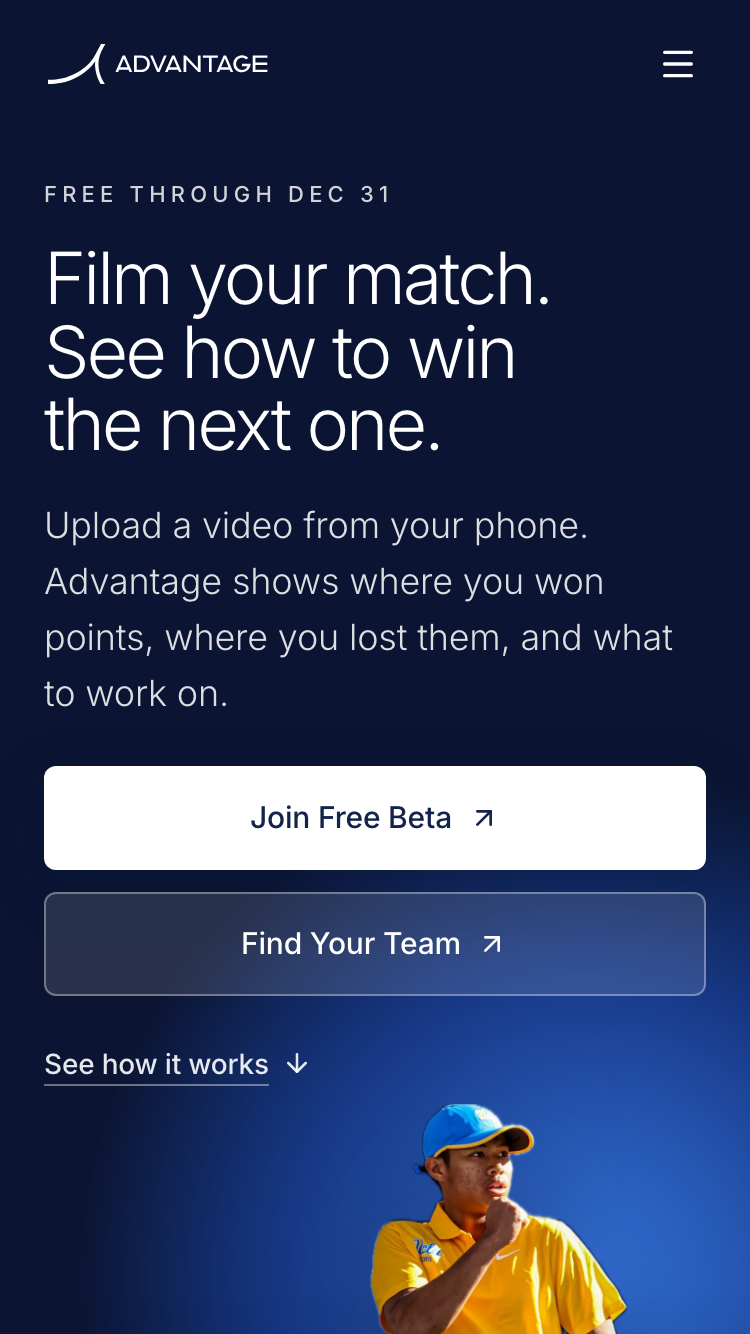
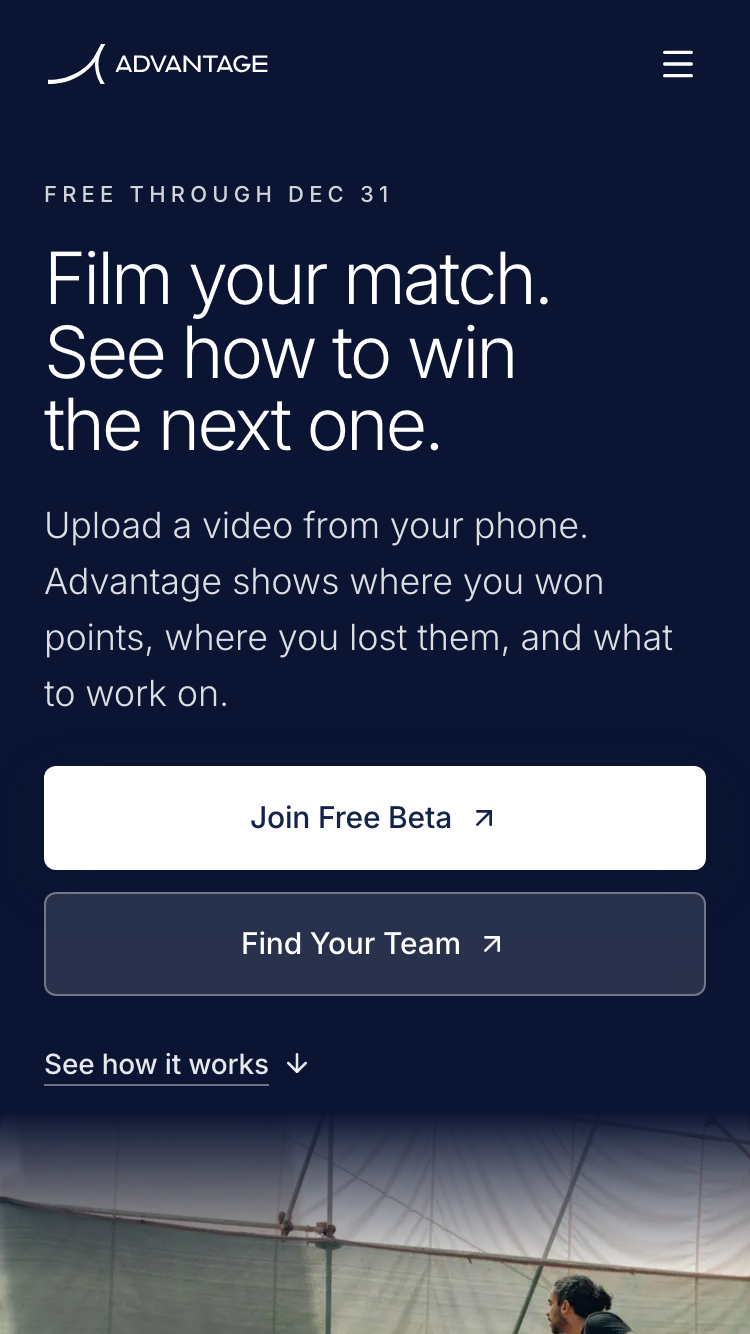
Use the coaching photo in the hero, uncropped
Replace the cut-out player with the supplied coach-and-player photo. It is
pinned to the hero's right edge and shown whole at 4:3 so neither person is
cut off; its left edge dissolves into the navy so the copy stays clear.

Changed region(s): [[0.0, 0.6147, 1.0, 1.0]]

diff --git a/src/app/perspective.css b/src/app/perspective.css
@@ -702,27 +702,21 @@ section.band.final-band { position: relative; overflow: hidden; padding: 130px 0
 }
 
 /* ============================================================
-   HUMAN HERO — a cut-out player and plain copy, then the dashboard on a
+   HUMAN HERO — plain copy beside a photo, then the dashboard on a
    computer screen under both, fading into the next section (hero.tsx).
 
-   One responsive composition, real DOM at real sizes. The backdrop is the
-   page's navy, lit with the brand blue behind the figure so the cut-out
-   has something to stand against; the copy side stays dark for the white
-   type and the transparent nav.
+   One responsive composition, real DOM at real sizes, on the page's navy.
    ============================================================ */
-.hh { position: relative; overflow: hidden; isolation: isolate; color: #fff;
-  background:
-    radial-gradient(ellipse 46% 60% at 80% 38%, rgba(59,130,246,.95) 0%, rgba(37,99,235,.55) 38%, transparent 72%),
-    radial-gradient(ellipse 40% 36% at 100% 0%, rgba(56,189,248,.35) 0%, transparent 70%),
-    #0B1533; }
-.hh-inner { position: relative; display: flex; align-items: center; padding-top: 128px; padding-bottom: 120px;
+/* --hh-lap: how far the screen laps up over the top tier.
+   --hh-copy: the copy column's width; the photo starts where it ends. */
+.hh { --hh-lap: 64px; --hh-copy: 500px; --hh-gutter: max(40px, calc((100vw - 1240px) / 2 + 40px));
+  position: relative; overflow: hidden; isolation: isolate; color: #fff; background: #0B1533; }
+.hh-inner { position: relative; z-index: 1; display: flex; align-items: center; padding-top: 128px; padding-bottom: 120px;
   min-height: clamp(560px, 72vh, 680px); min-height: clamp(560px, 72svh, 680px); }
-/* The headline is sized so its longer sentence holds one line inside the
-   copy column, and the column is sized to stop short of the stage. */
-.hh-copy { position: relative; z-index: 1; display: flex; flex-direction: column; align-items: flex-start; gap: 22px; max-width: 630px; }
+.hh-copy { display: flex; flex-direction: column; align-items: flex-start; gap: 22px; max-width: var(--hh-copy); }
 .hh-title { font-size: 48px; line-height: 1.06; text-wrap: balance; }
 .hh-title span { display: block; }
-.hh-sub { max-width: 46ch; color: rgba(255,255,255,.9); font-weight: var(--fw-regular); }
+.hh-sub { max-width: 42ch; color: rgba(255,255,255,.9); font-weight: var(--fw-regular); }
 .hh-copy .h-actions { margin-top: 6px; }
 /* The secondary action: a quiet text link down to How it works, under the
    two sign-up lanes rather than beside them, so it never competes. */
@@ -732,13 +726,24 @@ section.band.final-band { position: relative; overflow: hidden; padding: 130px 0
   transition: color 160ms var(--ease-primary), text-decoration-color 160ms var(--ease-primary); }
 .hh-more:hover { color: #fff; text-decoration-color: #fff; }
 
-/* The player's stage: the top tier's full height on the right. The figure
-   stands on the tier's bottom edge, which the screen below overlaps
-   (--hh-lap), so the cut-out's own bottom edge is always behind the screen. */
-.hh { --hh-lap: 64px; }
-.hh-stage { position: absolute; top: 0; bottom: 0; right: 40px; width: 460px; pointer-events: none; }
-.hh-player { position: absolute; bottom: 0; left: 50%; translate: -50% 0; height: 86%; width: auto; max-width: none;
-  filter: drop-shadow(0 24px 40px rgba(4,10,30,.45)); }
+/* The photo: whole, at its own 4:3, pinned to the hero's right edge and
+   standing on the screen's top edge. It reaches left to just inside the copy
+   column; a mask dissolves that left strip (and a sliver along the bottom,
+   for where it runs past the screen's corner, and the top) into the navy,
+   so the picture has no hard edge anywhere it meets the backdrop. Sized by width, so the people in it are
+   never cropped; only spare ceiling can run off the hero's top. */
+.hh-top { position: relative; }
+.hh-photo { position: absolute; z-index: 0; right: 0; bottom: var(--hh-lap);
+  width: min(calc(100vw - var(--hh-gutter) - var(--hh-copy) + 40px), 900px); aspect-ratio: 4 / 3; pointer-events: none;
+  --m: linear-gradient(to right, transparent 0%, rgba(0,0,0,.35) 7%, #000 17%),
+       linear-gradient(to top, transparent 0%, #000 5%),
+       linear-gradient(to bottom, transparent 0%, #000 14%);
+  -webkit-mask-image: var(--m); mask-image: var(--m);
+  -webkit-mask-composite: source-in; mask-composite: intersect; }
+.hh-photo img { object-fit: cover; }
+/* The nav's shade: navy down from the top, over the photo only. */
+.hh-photo::after { content: ""; position: absolute; inset: 0;
+  background: linear-gradient(to bottom, rgba(11,21,51,.78) 0%, rgba(11,21,51,.4) 14%, rgba(11,21,51,0) 30%); }
 
 /* The computer screen: the dashboard Home's 1440 artboard under a browser
    bar, scaled to the container by useScaleToFit and cut off partway down.
@@ -763,23 +768,20 @@ section.band.final-band { position: relative; overflow: hidden; padding: 130px 0
     rgba(250,250,250,.7) 64%, rgba(250,250,250,.92) 82%, var(--surface-page) 96%); }
 
 @media (max-width: 1239px) {
-  .hh-copy { max-width: 530px; }
+  .hh { --hh-copy: 440px; }
   .hh-title { font-size: 42px; letter-spacing: -1.2px; }
-  .hh-stage { width: 380px; }
 }
-/* Below 1024 the player can no longer stand beside the copy: the stage
-   drops into the flow under it, and the screen is drawn wider than the
-   viewport so it stays legible, running off the right edge. */
+/* Below 1024 the photo can no longer sit beside the copy: it drops into the
+   flow under it at full width, its top edge dissolving into the navy, and
+   the screen is drawn wider than the viewport so it stays legible. */
 @media (max-width: 1023px) {
-  .hh { --hh-lap: 48px; background:
-    radial-gradient(ellipse 90% 30% at 78% 56%, rgba(59,130,246,.9) 0%, rgba(37,99,235,.45) 45%, transparent 75%),
-    #0B1533; }
+  .hh { --hh-lap: 0px; --hh-copy: 560px; }
   .hh-inner { flex-direction: column; align-items: flex-start; min-height: 0; padding-top: 104px; padding-bottom: 0; }
-  .hh-copy { max-width: 560px; gap: 18px; }
+  .hh-copy { gap: 18px; }
   .hh-title { font-size: 44px; }
-  .hh-stage { position: relative; top: auto; bottom: auto; right: auto; flex: none; align-self: stretch; width: auto;
-    height: 320px; margin-top: 8px; }
-  .hh-player { left: auto; right: 4%; translate: none; height: 100%; }
+  .hh-photo { position: relative; right: auto; bottom: auto; width: 100%; margin-top: 8px;
+    --m: linear-gradient(to bottom, transparent 0%, rgba(0,0,0,.4) 12%, #000 30%); }
+  .hh-photo::after { content: none; }
   .hh-screen { width: 150%; border-radius: 12px 12px 0 0; }
   .hh::after { height: clamp(150px, 40vw, 300px); }
 }
@@ -789,13 +791,11 @@ section.band.final-band { position: relative; overflow: hidden; padding: 130px 0
   .hh-sub { font-size: 16px; line-height: 1.5; }
   .hh-copy .h-actions { width: 100%; flex-direction: column; align-items: stretch; gap: 11px; margin-top: 4px; }
   .hh-copy .hbtn { width: 100%; height: 52px; font-size: 15px; }
-  .hh-stage { height: 280px; margin-top: 4px; }
   .hh-screen { width: 230%; }
 }
 /* Short landscape phones: height is scarce, so the lanes sit side by side
-   and the player is dropped; the copy and both buttons stay above the fold. */
+   and the photo is dropped; the copy and both buttons stay above the fold. */
 @media (max-width: 1023px) and (orientation: landscape) and (max-height: 560px) {
-  .hh { --hh-lap: 0px; }
   .hh-inner { padding-top: 76px; padding-bottom: 32px; }
   .hh-copy { gap: 12px; }
   .hh-title { font-size: clamp(26px, 5.6vw, 36px); }
@@ -803,7 +803,7 @@ section.band.final-band { position: relative; overflow: hidden; padding: 130px 0
   .hh-sub { font-size: 15px; max-width: 60ch; }
   .hh-copy .h-actions { flex-direction: row; width: auto; }
   .hh-copy .hbtn { width: auto; height: 46px; }
-  .hh-stage { display: none; }
+  .hh-photo { display: none; }
 }
 
 /* ============================================================

diff --git a/src/components/perspective/hero.tsx b/src/components/perspective/hero.tsx
@@ -10,18 +10,18 @@ import { BETA_END_SHORT } from "@/lib/pilot";
 
 /* ===========================================================
    HERO PHOTO SLOT
-   A cut-out player on a transparent background (PNG), standing on the
-   hero's own navy-and-blue backdrop. To swap: drop another cut-out at
-   public/assets/marketing/hero-*.png, change this one import, and rewrite
-   `alt` to describe the new picture. The figure is anchored to the hero's
-   bottom edge, so a cut-out that ends mid-body (as this one does at the
-   thigh) never shows its cut.
+   A landscape photo, shown whole (never cropped at the sides) against the
+   hero's right edge. Its left edge is faded into the navy backdrop so the
+   copy beside it stays clear. To swap: drop another landscape photo at
+   public/assets/marketing/hero-*.jpg, change this one import, and rewrite
+   `alt`. Keep the people out of the left ~12% of the frame: that strip is
+   the fade.
    =========================================================== */
-import heroPhoto from "../../../public/assets/marketing/hero-player.png";
+import heroPhoto from "../../../public/assets/marketing/hero-coaching.jpg";
 
 const HERO_PHOTO = {
   src: heroPhoto,
-  alt: "A tennis player in a gold shirt and blue cap pumps a fist between points, racket in hand.",
+  alt: "A coach feeds balls from a basket to a young player on a covered clay court.",
 };
 
 const HERO_EYEBROW = `Free through ${BETA_END_SHORT}`;
@@ -43,17 +43,19 @@ const HERO_SUB =
 /* ===========================================================
    Human hero — one responsive composition, two tiers.
 
-   Top: a cut-out player on a navy backdrop lit blue behind them, the copy
-   on the dark side so the white type and the transparent nav stay legible.
+   Top: the copy on navy, and beside it the photo, pinned to the hero's
+   right edge and shown whole. The photo runs left until it meets the copy
+   column and dissolves into the navy there, so nobody in it is cut off and
+   nothing sits behind the type. A shade along its top keeps the
+   transparent nav legible over a bright picture.
    Below both: the dashboard on a computer screen, running the container's
-   width. The screen overlaps the top tier (the player stands behind its
-   top edge, which hides where the cut-out ends) and fades out into the
-   next section, so the hero has no hard bottom edge.
+   width, fading out into the next section so the hero has no hard bottom
+   edge.
 
-   • ≥1024px: copy left, player right, screen under both.
-   • <1024px: copy, then the player, then the screen, drawn wider than the
-     viewport so it stays legible and runs off the right edge. Both sign-up
-     buttons stay above the fold on a 375×667 phone.
+   • ≥1024px: copy left, photo right, screen under both.
+   • <1024px: copy, then the photo full width, then the screen, drawn wider
+     than the viewport so it stays legible and runs off the right edge. Both
+     sign-up buttons stay above the fold on a 375×667 phone.
    =========================================================== */
 
 // The screen is the dashboard Home's 1440 artboard under a browser bar, cut
@@ -117,27 +119,23 @@ function HeroActions() {
 export function PerspectiveHero() {
   return (
     <header className="hh" id="top">
-      <div className="wrap hh-inner">
-        <div className="hh-copy">
-          <span className="h-eyebrow">{HERO_EYEBROW}</span>
-          <h1 className="h-title hh-title">
-            <span>{HERO_TITLE[0]}</span> <span>{HERO_TITLE[1]}</span>
-          </h1>
-          <p className="h-sub hh-sub">{HERO_SUB}</p>
-          <HeroActions />
-          <a className="hh-more" href="#how" onClick={() => trackEvent("see_how_it_works_click", { placement: "home-hero" })}>
-            See how it works
-            <ArrowDown size={15} />
-          </a>
+      <div className="hh-top">
+        <div className="wrap hh-inner">
+          <div className="hh-copy">
+            <span className="h-eyebrow">{HERO_EYEBROW}</span>
+            <h1 className="h-title hh-title">
+              <span>{HERO_TITLE[0]}</span> <span>{HERO_TITLE[1]}</span>
+            </h1>
+            <p className="h-sub hh-sub">{HERO_SUB}</p>
+            <HeroActions />
+            <a className="hh-more" href="#how" onClick={() => trackEvent("see_how_it_works_click", { placement: "home-hero" })}>
+              See how it works
+              <ArrowDown size={15} />
+            </a>
+          </div>
         </div>
-        <div className="hh-stage">
-          <Image
-            className="hh-player"
-            src={HERO_PHOTO.src}
-            alt={HERO_PHOTO.alt}
-            preload
-            sizes="(max-width: 1023px) 240px, 420px"
-          />
+        <div className="hh-photo">
+          <Image src={HERO_PHOTO.src} alt={HERO_PHOTO.alt} fill preload sizes="(max-width: 1023px) 100vw, 66vw" placeholder="blur" />
         </div>
       </div>
       <div className="wrap hh-screen-wrap">

diff --git a/review/landing-human-hero/SUMMARY.md b/review/landing-human-hero/SUMMARY.md
@@ -6,21 +6,23 @@ than create `landing-human-hero`). Nothing pushed or deployed; `main` untouched.
 ## What changed
 
 **Hero** — `src/components/perspective/hero.tsx`, `src/app/perspective.css`
-- The blue mesh + tilted full-size dashboard is replaced by a cut-out player
-  (`public/assets/marketing/hero-player.png`, from the photo you supplied) on
-  a navy backdrop lit blue behind them, with copy on the left.
-- Under the copy and the player, the dashboard sits on a computer screen (a
-  browser window, full container width) that overlaps the top tier and fades
-  out into the next section. On phones it is drawn wider than the viewport so
-  it stays legible and runs off the right edge. This replaced the small
-  floating card from the earlier pass.
+- The blue mesh + tilted full-size dashboard is replaced by plain copy on navy
+  with a photo beside it (`public/assets/marketing/hero-coaching.jpg`, the
+  coach-and-player photo you supplied).
+- The photo is pinned to the hero's right edge and shown whole at 4:3, so
+  neither person is cropped. Its left edge dissolves into the navy where it
+  meets the headline; the top and bottom edges fade too.
+- Under the copy and the photo, the dashboard sits on a computer screen (a
+  browser window, full container width) that fades out into the next section.
+  On phones it is drawn wider than the viewport so it stays legible.
 - One responsive layout replaces the old pair (a scaled 1440 px artboard for
   desktop plus a separate mobile hero).
-- The player goes through `next/image` (preloaded) with real alt text.
+- The photo goes through `next/image` (preloaded, blur placeholder) with real
+  alt text.
 - Kept: the "Free through Dec 31" eyebrow and both sign-up buttons (Join Free
   Beta, Find Your Team). Added: a "See how it works" link to `#how`.
-- The first version used `elc-court.jpg` full-bleed as an interim; that is no
-  longer referenced by the hero.
+- Earlier passes used `elc-court.jpg` and then a cut-out player; neither is
+  used now and the cut-out file has been removed.
 
 **How it works** — `src/components/perspective/sections.tsx`
 - Moved directly under the hero and reframed as Capture → Upload → Analyze.
@@ -98,11 +100,10 @@ Run with Playwright against the production build. Screenshots here:
 4. **Three hero actions.** Both sign-up lanes stay as buttons; "See how it
    works" is a text link under them so it doesn't compete.
 5. **Dark hero, not light.** The nav is transparent with a white logo at the
-   top of the page, so the hero has to stay dark. The cut-out stands on navy
-   with a blue glow behind it; the gold shirt carries the contrast.
-5a. **Cut-out made locally** with macOS subject detection, so the photo never
-   left this machine. The edge is clean at page size; a designer's hand-cut
-   would be crisper around the racket strings if you want to polish it.
+   top of the page, so the copy side stays navy and the photo gets a navy
+   shade along its top for the nav links.
+5a. **Headline wraps to three lines on desktop** so the copy column is narrow
+   enough for the whole photo to fit beside it.
 6. **Floating card is a crop, not a shrunk window.** The whole dashboard at
    that size is unreadable, so the card shows the season summary at 60% scale
    and drops the browser chrome.
@@ -130,10 +131,9 @@ Run with Playwright against the production build. Screenshots here:
 
 ## What you need to do
 
-1. **Clear the hero photo for use.** It shows a recognisable player, with a
-   school mark and an apparel logo on the shirt and cap. Confirm you have the
-   player's release and that the marks are fine to show (or have them
-   retouched out) before this takes traffic.
+1. **Clear the hero photo for use.** It shows a recognisable adult and a
+   child. Confirm you hold a licence or release for the photo that covers
+   marketing use, including a guardian's consent for the child.
 2. **Shoot the rest** (`assets/PHOTO_SHOTLIST.md`) when you can; swapping the
    hero is one import line in `hero.tsx` plus the alt text.
 3. **Regenerate `src/app/opengraph-image.jpg`**. Link previews still show

diff --git a/assets/PHOTO_SHOTLIST.md b/assets/PHOTO_SHOTLIST.md
@@ -1,23 +1,21 @@
 # Photo shot list — landing page
 
-Six shots for the home page, in priority order. The hero currently runs a
-cut-out of a player (`public/assets/marketing/hero-player.png`) on a navy and
-blue backdrop; the slot is at the top of `src/components/perspective/hero.tsx`.
+Six shots for the home page, in priority order. The hero currently runs
+`public/assets/marketing/hero-coaching.jpg` (a coach and a young player on a
+clay court); the slot is at the top of `src/components/perspective/hero.tsx`.
 
 ## How the hero uses a photo
 
-- The hero shows **one player cut out of their background**, standing on the
-  page's own backdrop. Whatever is behind them in the photo is thrown away, so
-  the background only has to be easy to cut against (plain, well separated
-  from the player, no one standing behind them).
-- **Desktop**: headline and buttons on the left; the player stands on the
-  right at about 85% of the hero's height, with a dashboard card across their
-  lower half. Face, shoulders and chest are what shows.
-- **Mobile**: copy first, then the player looking over the top of the card at
-  the bottom of the hero. Only head and shoulders show.
-- So: **portrait orientation, waist-up or longer, face and upper body clean
-  and well lit.** A cut-out that ends mid-thigh is fine; the hero's bottom
-  edge hides the cut.
+- The photo is shown **whole, at 4:3**, pinned to the hero's right edge. It is
+  never cropped at the sides, so everyone in the frame stays in.
+- Its **left ~15% dissolves into the navy backdrop** where it meets the
+  headline, and a thin strip along the top and bottom fades too. Keep people
+  and anything important out of the left 15% and the top 15%.
+- **Desktop**: copy on the left, photo on the right, up to 900 px wide.
+- **Mobile**: copy first, then the photo at full width with its top edge
+  fading in, then the dashboard screen.
+- So: **landscape 4:3, people in the middle and right of the frame, a quiet
+  left edge.** A bright photo is fine; the nav gets its own shade.
 
 ## For every shot
 
@@ -29,14 +27,14 @@ blue backdrop; the slot is at the top of `src/components/perspective/hero.tsx`.
   are as welcome as college facilities.
 - **No visible third-party logos**: no sponsor banners, no scoreboard brands,
   keep apparel and racket logos small or turned away. (The current hero
-  cut-out shows a school mark and an apparel logo on the shirt and cap.)
+  photo shows small logos on a racket and the coach's shoes.)
 - Signed releases from everyone recognisable.
 - Deliver as sRGB JPEG, named as below, into `public/assets/marketing/`.
 
 ## Shots
 
 The desktop and mobile crop notes below are for using a shot full-frame
-elsewhere on the page. For the hero, the cut-out rules above win.
+elsewhere on the page. For the hero, the rules above win.
 
 ### 1. Phone setup on the fence — HERO (`hero-fence.jpg`)
 
@@ -109,8 +107,7 @@ step in How it works.
 
 ## Swapping the hero photo
 
-1. Cut the player out to a transparent PNG and put it at
-   `public/assets/marketing/hero-<name>.png`.
+1. Put the photo at `public/assets/marketing/hero-<name>.jpg` (4:3 landscape).
 2. In `src/components/perspective/hero.tsx`, change the one `heroPhoto`
    import to point at it.
 3. Rewrite `HERO_PHOTO.alt` to describe the new picture.

diff --git a/DESIGN.md b/DESIGN.md
@@ -4,7 +4,7 @@ Visual system for the Advantage landing page, vendored from the `advantage-dashb
 
 ## Visual Theme
 
-Light, clean, high-clarity — Stripe/Linear tech-minimal. One deliberate dark band (final CTA) for contrast as punctuation. Borders for structure, soft shadows for elevation, generous whitespace. Photography of real players is the hero imagery: a cut-out player on a navy backdrop lit with the accent blue, so white type and the nav stay legible; product UI sits under it on a computer screen that fades into the next section, and as the proof further down the page.
+Light, clean, high-clarity — Stripe/Linear tech-minimal. One deliberate dark band (final CTA) for contrast as punctuation. Borders for structure, soft shadows for elevation, generous whitespace. Photography of real players is the hero imagery: a photo pinned to the hero's right edge, its left edge dissolving into the navy backdrop so the white type beside it stays clear; product UI sits under it on a computer screen that fades into the next section, and as the proof further down the page.
 
 ## Color
 
